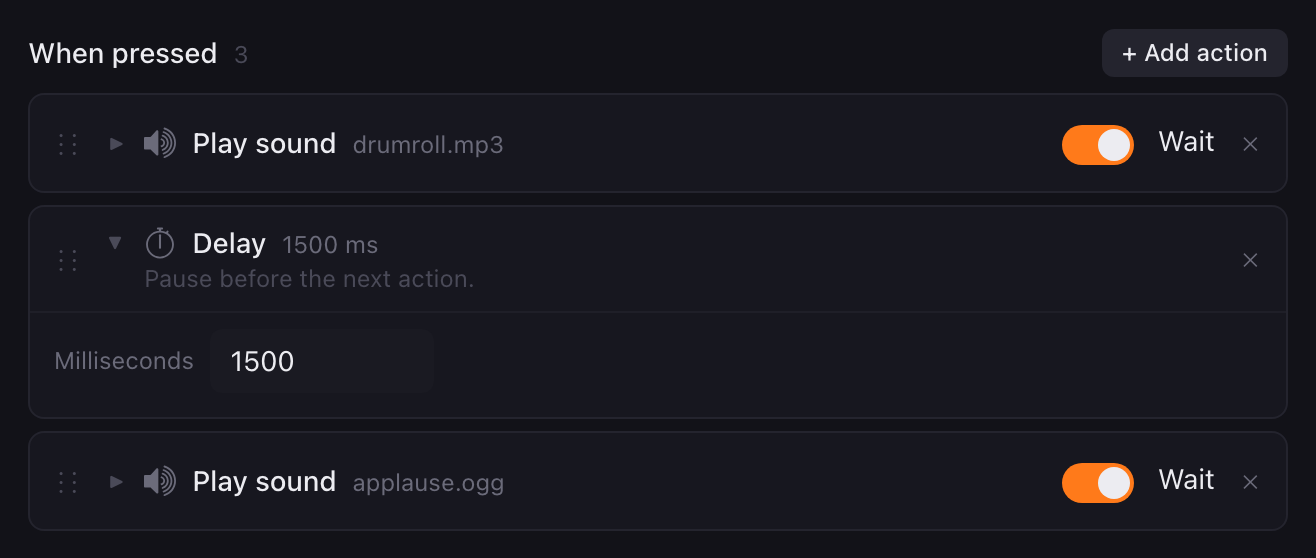
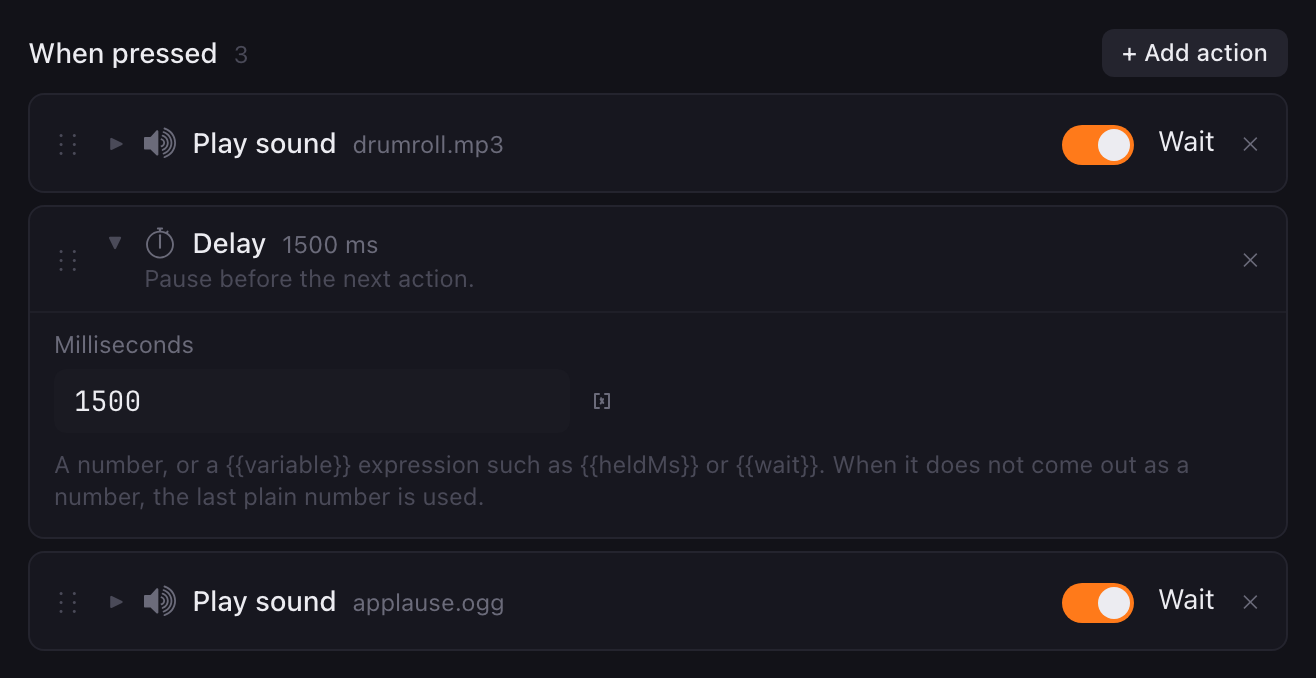
Document the Lunchpad script object and the import review
Run script gains the reference for scripts that drive the app: what the Lunchpad
object knows, what each of its functions queues, and that nothing it queues runs
until the snippet has finished. It lives on that page because the editor's
Scripting reference button links there. Run test now says what a snippet would
queue without running any of it.

Importing a page made elsewhere shows what its actions would do first, grouped
by how much they deserve a look, and imports nothing until it is confirmed. The
sharp edge is a secret: a shared page can name one you hold and send its value
wherever that action points, so Secrets and Pages and backup both say so.

Delay takes a variable as well as a number, rows inside a branch or a flip flop
are indented, and the Home Assistant payload is coloured as JSON. Six screenshots
taken again and one new one.

diff --git a/scripts/screenshots/mock/backend.ts b/scripts/screenshots/mock/backend.ts
@@ -28,6 +28,10 @@ export interface Scenario {
   running?: [number, number][];
   /** what "Run test" in the script editor reports */
   scriptResult?: string;
+  /** actions the tested snippet would queue through `Lunchpad.*` (a test runs none) */
+  scriptActions?: { type?: string }[];
+  /** lines the tested snippet wrote with `Lunchpad.log` */
+  scriptLogs?: string[];
   /** put two buttons on pads the connected Launchpad does not have (the "Out of sight" panel) */
   outside?: boolean;
   /** which device is connected (default: the Launchpad X) */
@@ -153,6 +157,21 @@ export function handle(cmd: string, a: Args): unknown {
       return layoutFor(a.model);
     case "list_models":
       return MODELS;
+    case "review_import_file":
+    case "review_import_json":
+      return {
+        pages: 1,
+        buttons: 3,
+        actions: 7,
+        findings: [
+          { level: "danger", kind: "secret", page: "Shared page", x: 0, y: 7, action: "httpRequest", detail: "openaiKey" },
+          { level: "danger", kind: "upload", page: "Shared page", x: 0, y: 7, action: "httpRequest", detail: "/Users/demo/Documents/notes.txt → https://example.com/upload" },
+          { level: "danger", kind: "program", page: "Shared page", x: 1, y: 7, action: "launchApplication", detail: "/bin/sh -c 'curl …'" },
+          { level: "warning", kind: "request", page: "Shared page", x: 0, y: 7, action: "httpRequest", detail: "https://example.com/upload" },
+          { level: "warning", kind: "script", page: "Shared page", x: 2, y: 7, action: "runScript", detail: "Lunchpad.switchPage(\"Scenes\")" },
+          { level: "info", kind: "sound", page: "Shared page", x: 2, y: 7, action: "playSound", detail: "/Users/demo/Music/horn.mp3" },
+        ],
+      };
     case "builtin_info":
       // The shots are taken as Windows (capture.ts), so these read like a Windows machine.
       return { appVersion: __LUNCHPAD_VERSION__, os: "windows", hostname: "STUDIO-PC", username: "Demo", downloadDir: DOWNLOADS.path, configDir: CONFIG_DIR };
@@ -351,7 +370,7 @@ export function handle(cmd: string, a: Args): unknown {
     case "test_http_request":
       return { status: 200, ok: true, elapsedMs: 142, bodyPreview: '{\n  "ok": true,\n  "viewers": 128\n}' };
     case "test_script":
-      return { result: scenario.scriptResult ?? "ok", locals: {}, globals: {}, elapsedMs: 3 };
+      return { result: scenario.scriptResult ?? "ok", locals: {}, globals: {}, elapsedMs: 3, actions: scenario.scriptActions ?? [], logs: scenario.scriptLogs ?? [] };
     case "get_variables":
       return variables;
     case "delete_variables":

diff --git a/scripts/screenshots/scenarios/actions.ts b/scripts/screenshots/scenarios/actions.ts
@@ -182,12 +182,21 @@ export const actionShots: Shot[] = [
     [
       act({
         type: "runScript",
-        code: "const deaths = Number(globals.deaths ?? 0) + 1\nglobals.deaths = deaths\nreturn deaths >= 10 ? 'Time for a break' : `Death #${deaths}`",
+        // Reads a shared variable, writes one, and drives the app through Lunchpad.
+        code: "const deaths = Number(globals.deaths ?? 0) + 1;\nglobals.deaths = deaths;\n\n// Every fifth death gets said out loud.\nif (deaths % 5 === 0) {\n  Lunchpad.run({ type: \"textToSpeech\", text: `${deaths} deaths already` });\n}\n\nLunchpad.log(\"death\", deaths, \"on\", Lunchpad.button.caption);\nreturn `Death #${deaths}`;",
         saveTo: "message",
         saveScope: "local",
       }),
     ],
-    { then: async (_page, dialog) => dialog.getByRole("button", { name: "Run test" }).click(), scenario: { scriptResult: "Death #4" } },
+    {
+      then: async (_page, dialog) => dialog.getByRole("button", { name: "Run test" }).click(),
+      // The fifth death: the snippet speaks it, so the test lists the action it would run.
+      scenario: {
+        scriptResult: "Death #5",
+        scriptLogs: ["death 5 on Deaths +1"],
+        scriptActions: [{ type: "textToSpeech" }],
+      },
+    },
   ),
   shot("setVariable", [act({ type: "setVariable", name: "lastPress", value: "{{x}},{{y}} on {{pageId}}", scope: "global" })]),
   shot("addToVariable", [act({ type: "addToVariable", name: "deaths", amount: "1", scope: "global" })]),

diff --git a/scripts/screenshots/scenarios/app.ts b/scripts/screenshots/scenarios/app.ts
@@ -228,6 +228,22 @@ export const appShots: Shot[] = [
     },
   },
 
+  {
+    // Importing a page made elsewhere: the review says what its actions would do before
+    // anything is imported. The findings come from the fake backend (mock/backend.ts).
+    name: "app/import-review",
+    viewport: TALL,
+    scenario: { dialogPath: "C:\\Users\\Demo\\Downloads\\stream-deck-page.json" },
+    run: async (page) => {
+      await openSettings(page, "Pages & backup");
+      await page.getByRole("button", { name: "Import page…" }).click();
+      const review = page.getByRole("dialog").filter({ hasText: "Check before importing" });
+      await review.waitFor();
+      await settle(page, 600);
+      return review;
+    },
+  },
+
   ...settingsTabs.map(([name, label]): Shot => ({ name: `app/settings-${name}`, viewport: TALL, run: (page) => openSettings(page, label) })),
 
   {
